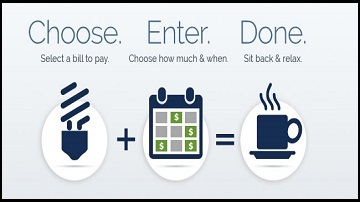
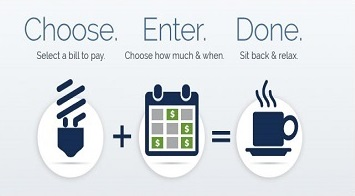
image border changed

diff --git a/BankingProjectAngular/WebContent/htmlpages/home.html b/BankingProjectAngular/WebContent/htmlpages/home.html
@@ -102,19 +102,19 @@
 		</div>
 		<div class="col-md-4 col-sm-6">
 			 <img
-				class="img-responsive img-portfolio img-hover"
+				class="img-responsive img-portfolio img-hover border"
 				src="img/billpayment.jpg" alt="Bill Payment">
 			
 		</div>
 		<div class="col-md-4 col-sm-6">
 			 <img
-				class="img-responsive img-portfolio img-hover"
+				class="img-responsive img-portfolio img-hover border"
 				src="img/chequedeposit.jpg" alt="Cheque Deposit">
 			
 		</div>
 		<div class="col-md-4 col-sm-6">
 			<img
-				class="img-responsive img-portfolio img-hover"
+				class="img-responsive img-portfolio img-hover border"
 				src="img/moneytransfer.jpg" alt="Money Transfer">
 			
 		</div>
